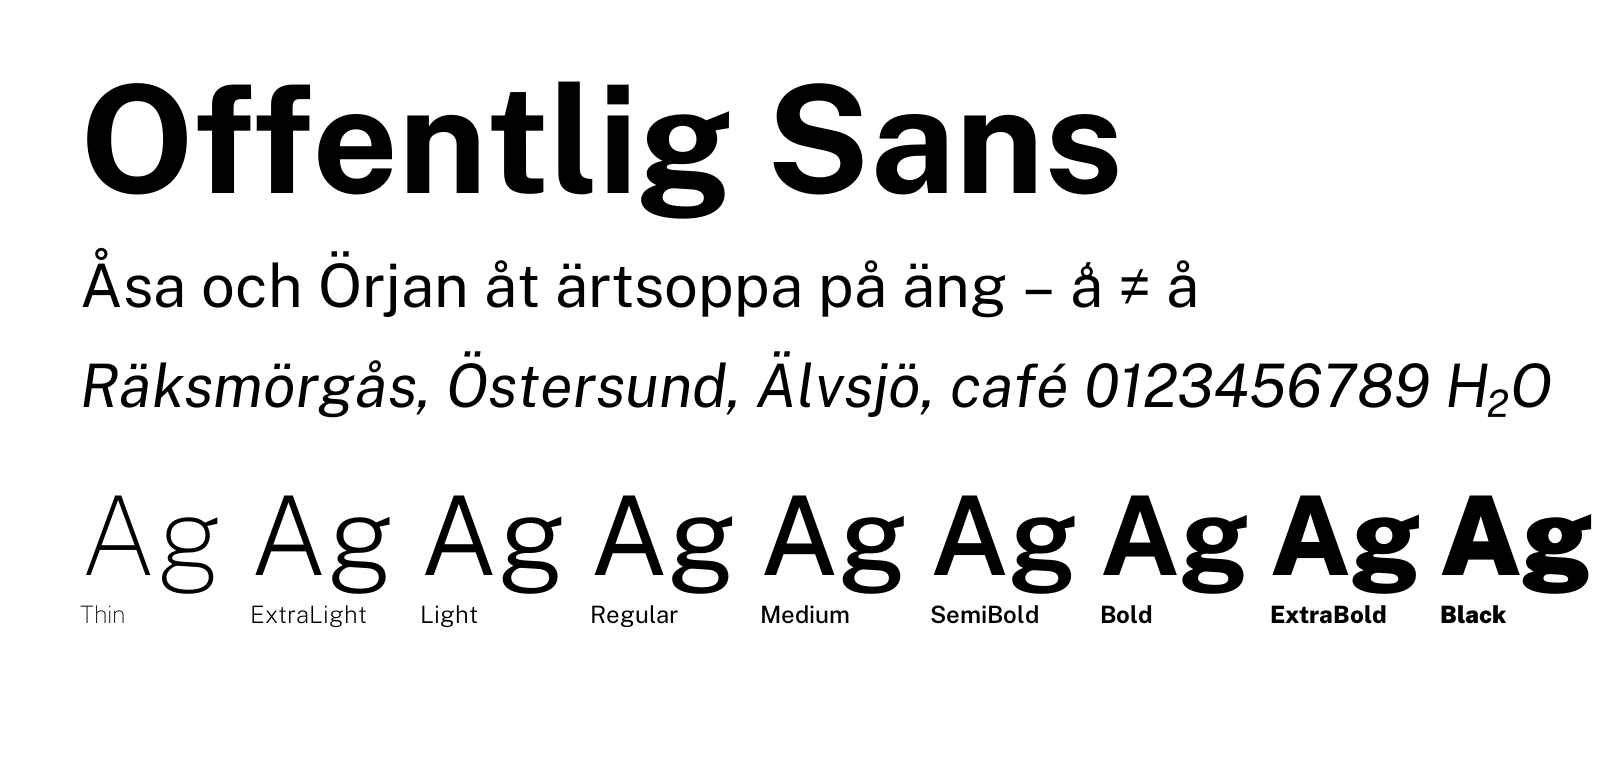
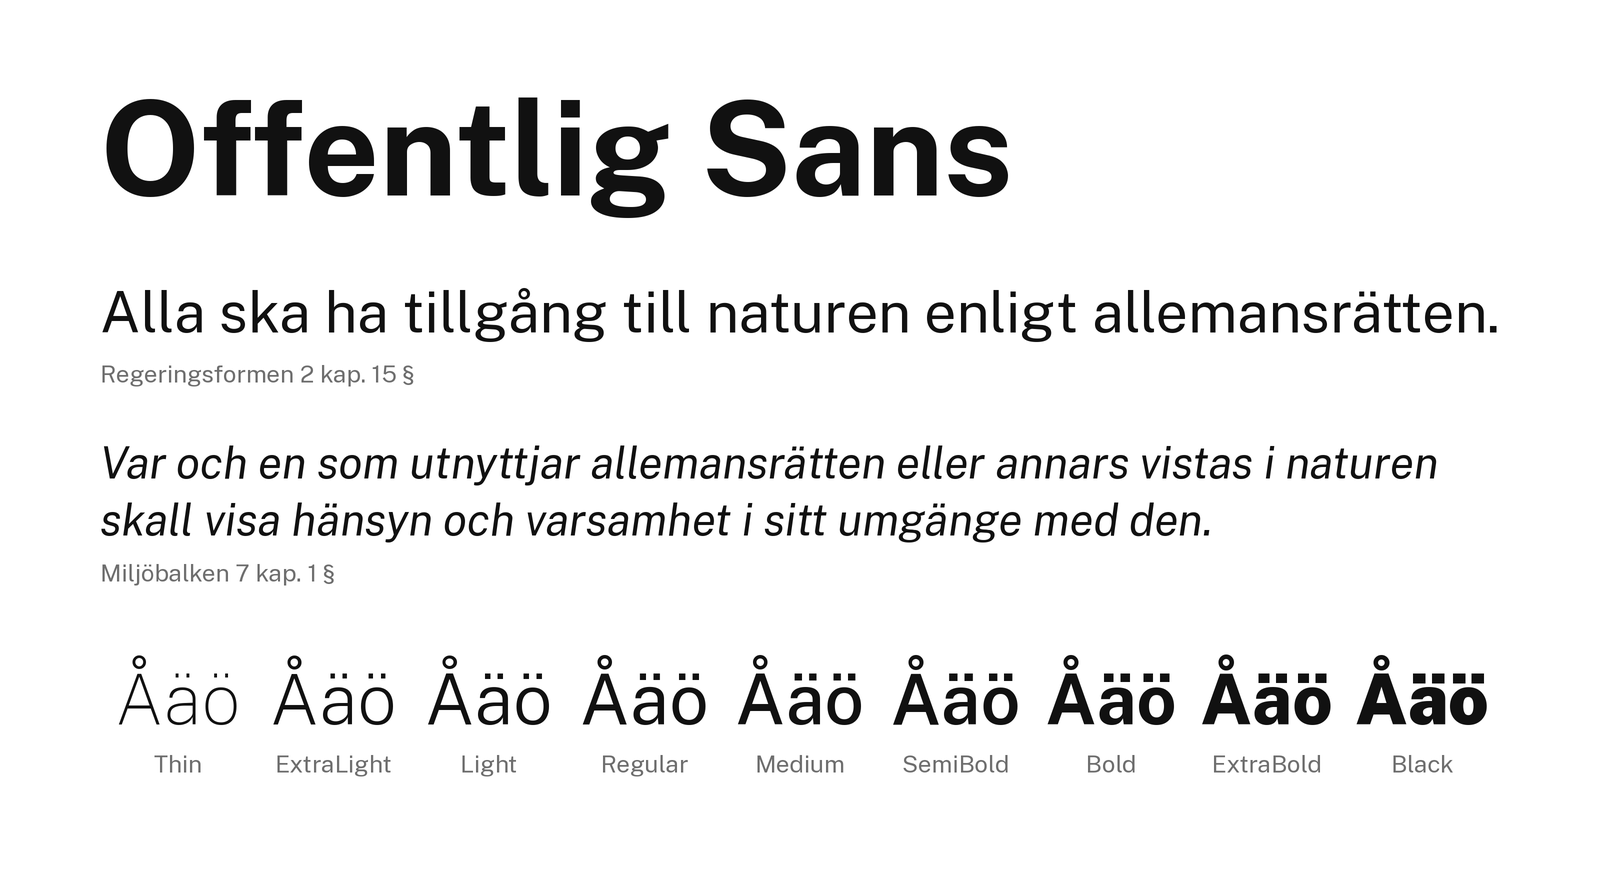
docs: redraw the specimen from Allemansrätten and tidy README wording
Adds scripts/specimen.py (make specimen), which shapes the statute quotes
with HarfBuzz on an even grid. The README and CHANGELOG count Ǔ as the
fourth fix, the Serif and Mono roadmap items share one form, and the
icebox gains round or square dots and further alternates.

Changed region(s): [[0.0312, 0.3329, 1.0, 0.9079], [0.0312, 0.0908, 0.7188, 0.3026], [0.2812, 0.8776, 0.3125, 0.9079]]

diff --git a/scripts/specimen.py b/scripts/specimen.py
@@ -1,0 +1,127 @@
+"""Render docs/specimen.png from the built static TTFs, quoting the statutes in docs/proof/allemansratten.txt.
+
+HarfBuzz shapes each line (so GPOS kerning applies) and Pillow draws each glyph at its shaped position.
+The page is drawn at twice the output size and downsampled, which keeps glyph positions sub-pixel accurate.
+"""
+from pathlib import Path
+
+import uharfbuzz as hb
+from fontTools.ttLib import TTFont
+from PIL import Image, ImageDraw, ImageFont
+
+ROOT = Path(__file__).resolve().parent.parent
+TTF = ROOT / "fonts" / "OffentligSans" / "ttf"
+OUT = ROOT / "docs" / "specimen.png"
+
+WIDTH, MARGIN, SS = 1600, 100, 2
+CONTENT = WIDTH - 2 * MARGIN
+INK, MUTED = (17, 17, 17), (110, 110, 110)
+WEIGHTS = ["Thin", "ExtraLight", "Light", "Regular", "Medium", "SemiBold", "Bold", "ExtraBold", "Black"]
+
+QUOTE_RF = "Alla ska ha tillgång till naturen enligt allemansrätten."
+QUOTE_MB = ("Var och en som utnyttjar allemansrätten eller annars vistas i naturen "
+            "skall visa hänsyn och varsamhet i sitt umgänge med den.")
+SOURCE_RF = "Regeringsformen 2 kap. 15 §"
+SOURCE_MB = "Miljöbalken 7 kap. 1 §"
+WEIGHT_SAMPLE = "Åäö"
+
+_fonts = {}
+
+
+def font(style):
+    if style not in _fonts:
+        path = TTF / f"OffentligSans-{style}.ttf"
+        blob = hb.Blob.from_file_path(str(path))
+        tt = TTFont(path)
+        _fonts[style] = (path, hb.Font(hb.Face(blob)), tt["head"].unitsPerEm, tt.getBestCmap(), tt.getGlyphOrder())
+    return _fonts[style]
+
+
+def shape(style, text):
+    _, hbfont, _, _, _ = font(style)
+    buf = hb.Buffer()
+    buf.add_str(text)
+    buf.guess_segment_properties()
+    hb.shape(hbfont, buf, {"kern": True})
+    return buf.glyph_infos, buf.glyph_positions
+
+
+def width(style, text, size):
+    _, _, upem, _, _ = font(style)
+    return sum(p.x_advance for p in shape(style, text)[1]) * size / upem
+
+
+def draw_line(draw, style, text, size, x, baseline, fill):
+    """Draw one shaped line; x and baseline are in output pixels."""
+    path, _, upem, cmap, order = font(style)
+    pil = ImageFont.truetype(str(path), round(size * SS), layout_engine=ImageFont.Layout.BASIC)
+    infos, positions = shape(style, text)
+    scale = size * SS / upem
+    pen = x * SS
+    for info, pos in zip(infos, positions):
+        ch = text[info.cluster]
+        # Pillow draws by character, so every shaped glyph must be the default glyph of its character.
+        assert cmap.get(ord(ch)) == order[info.codepoint], f"{style}: {ch!r} shaped to {order[info.codepoint]}"
+        if not ch.isspace():
+            draw.text((pen + pos.x_offset * scale, baseline * SS - pos.y_offset * scale), ch,
+                      font=pil, fill=fill, anchor="ls")
+        pen += pos.x_advance * scale
+
+
+def wrap(style, text, size, max_width):
+    lines, line = [], ""
+    for word in text.split():
+        trial = f"{line} {word}".strip()
+        if line and width(style, trial, size) > max_width:
+            lines.append(line)
+            line = word
+        else:
+            line = trial
+    return lines + [line]
+
+
+def fit(style, text, max_width):
+    return max_width / width(style, text, 1)
+
+
+def main():
+    title_size = 132
+    rf_size = fit("Regular", QUOTE_RF, CONTENT)
+    mb_size = 44
+    caption_size = 24
+    mb_lines = wrap("Italic", QUOTE_MB, mb_size, CONTENT)
+    column = CONTENT / len(WEIGHTS)
+    sample_size = min(fit("Black", WEIGHT_SAMPLE, column * 0.86), 92)
+
+    # Vertical layout: baselines measured from the top margin. Cap height is 0.723 em.
+    y = MARGIN + 0.723 * title_size
+    plan = [("line", "Bold", "Offentlig Sans", title_size, MARGIN, y, INK)]
+    y += 0.723 * rf_size + 96
+    plan.append(("line", "Regular", QUOTE_RF, rf_size, MARGIN, y, INK))
+    y += 50
+    plan.append(("line", "Regular", SOURCE_RF, caption_size, MARGIN, y, MUTED))
+    y += 0.723 * mb_size + 64
+    for i, text in enumerate(mb_lines):
+        plan.append(("line", "Italic", text, mb_size, MARGIN, y, INK))
+        y += mb_size * 1.3 if i < len(mb_lines) - 1 else 0
+    y += 46
+    plan.append(("line", "Regular", SOURCE_MB, caption_size, MARGIN, y, MUTED))
+    y += 0.723 * sample_size + 92
+    for i, weight in enumerate(WEIGHTS):
+        left = MARGIN + i * column
+        w = width(weight, WEIGHT_SAMPLE, sample_size)
+        plan.append(("line", weight, WEIGHT_SAMPLE, sample_size, left + (column - w) / 2, y, INK))
+        lw = width("Regular", weight, caption_size)
+        plan.append(("line", "Regular", weight, caption_size, left + (column - lw) / 2, y + 48, MUTED))
+    height = round(y + 48 + MARGIN)
+
+    page = Image.new("RGB", (WIDTH * SS, height * SS), "white")
+    draw = ImageDraw.Draw(page)
+    for _, style, text, size, x, baseline, fill in plan:
+        draw_line(draw, style, text, size, x, baseline, fill)
+    page.resize((WIDTH, height), Image.Resampling.LANCZOS).save(OUT, optimize=True)
+    print(f"wrote {OUT.relative_to(ROOT)} ({WIDTH} x {height})")
+
+
+if __name__ == "__main__":
+    main()

diff --git a/README.md b/README.md
@@ -1,13 +1,13 @@
 # Offentlig
 
-Offentlig is a planned open-source font superfamily. Offentlig Sans is the first member: a renamed fork of [Public Sans](https://github.com/uswds/public-sans) with correct Swedish letters. Serif and Mono families are planned and not yet started.
+Offentlig is a planned open-source font superfamily. Offentlig Sans is the first member: a renamed fork of [Public Sans](https://github.com/uswds/public-sans) with correct Swedish letters. Serif and Mono families are planned but not yet started.
 
 ![Offentlig Sans specimen](docs/specimen.png)
 
 ## Offentlig Sans
 
 - Nine weights (Thin to Black) in upright and italic, plus variable fonts on the `wght` axis (default 400).
-- Same design as Public Sans `develop` at `e40fcf567`, with three fixes: italic `å` no longer renders as `ǻ`, subscript digits U+2080 – U+2089 are encoded, and a spaced en dash keeps its spaces in Thin. It also adds the missing capital `Ǔ` (U+01D3).
+- Same design as Public Sans `develop` at `e40fcf567`, with four fixes: italic `å` no longer renders as `ǻ`, subscript digits U+2080 – U+2089 are encoded, a spaced en dash keeps its spaces in Thin, and the missing capital `Ǔ` (U+01D3) is added.
 - Stylistic sets: `ss01` selects an alternate `g`, `ss02` an alternate `l`, and `salt` both.
 - Formats: OTF, TTF, variable TTF and WOFF2.
 

diff --git a/ROADMAP.md b/ROADMAP.md
@@ -15,10 +15,12 @@
 - [ ] Fix the gap between capital A and lowercase m, see issue #259.
 - [ ] DIN 91379 sequences and pinyin tones, see issues #277 and #258.
 - [ ] Add CI that builds, tests and attaches the zip to tagged releases.
-- [ ] Serif family from IBM Plex Serif at weights 100 – 700.
-- [ ] Mono family adapted from IBM Plex Mono.
+- [ ] Serif family adapted from IBM Plex Serif, weights 100 – 700.
+- [ ] Mono family adapted from IBM Plex Mono, weights 100 – 700.
 
 ## Icebox
 
+- [ ] A choice between round and square dots (`i`, `j`, `ä`, `ö`, punctuation) as a stylistic set.
+- [ ] Alternates for more letters that commonly have them, alongside the existing `g` and `l`.
 - [ ] Narrow J, G alternates and distinct b/d/p/q: design choices to evaluate, see issues #358, #295 and #288.
 - [ ] Work through Rosalie Wagner's 2020 design to-do list, see issue #158.

diff --git a/CHANGELOG.md b/CHANGELOG.md
@@ -3,6 +3,5 @@
 ## [Unreleased]
 
 - Added Offentlig Sans, a fork of Public Sans (upstream commit `e40fcf567`) renamed to Offentlig Sans.
-- Fixed italic `å` rendering as `ǻ`, added Unicode values U+2080 – U+2089 for subscript digits, and restored the spaces around a spaced en dash in Thin.
-- Added capital `Ǔ` (U+01D3) to pair with `ǔ`.
+- Fixed four Public Sans issues: italic `å` rendered as `ǻ`, subscript digits U+2080 – U+2089 were unencoded, a spaced en dash lost its spaces in Thin, and capital `Ǔ` (U+01D3) was missing.
 - Split `ss01` into `ss01` (`g`) and `ss02` (`l`), and made Regular (400) the default of the variable fonts.

diff --git a/docs/CONTRIBUTING.md b/docs/CONTRIBUTING.md
@@ -17,6 +17,7 @@ make build     # fonts/OffentligSans/{otf,ttf,variable,webfonts}
 make test      # pytest against the built fonts
 make qa        # Fontspector universal and OpenType profiles, expected 0 FAIL
 make proof     # tester page (docs/proof/allemansratten.txt) and Diffenator2 proof pages in build/proof
+make specimen  # docs/specimen.png from the built TTFs and the Allemansrätten text
 make verify    # tests, links, wording, paths and secrets
 ```
 
